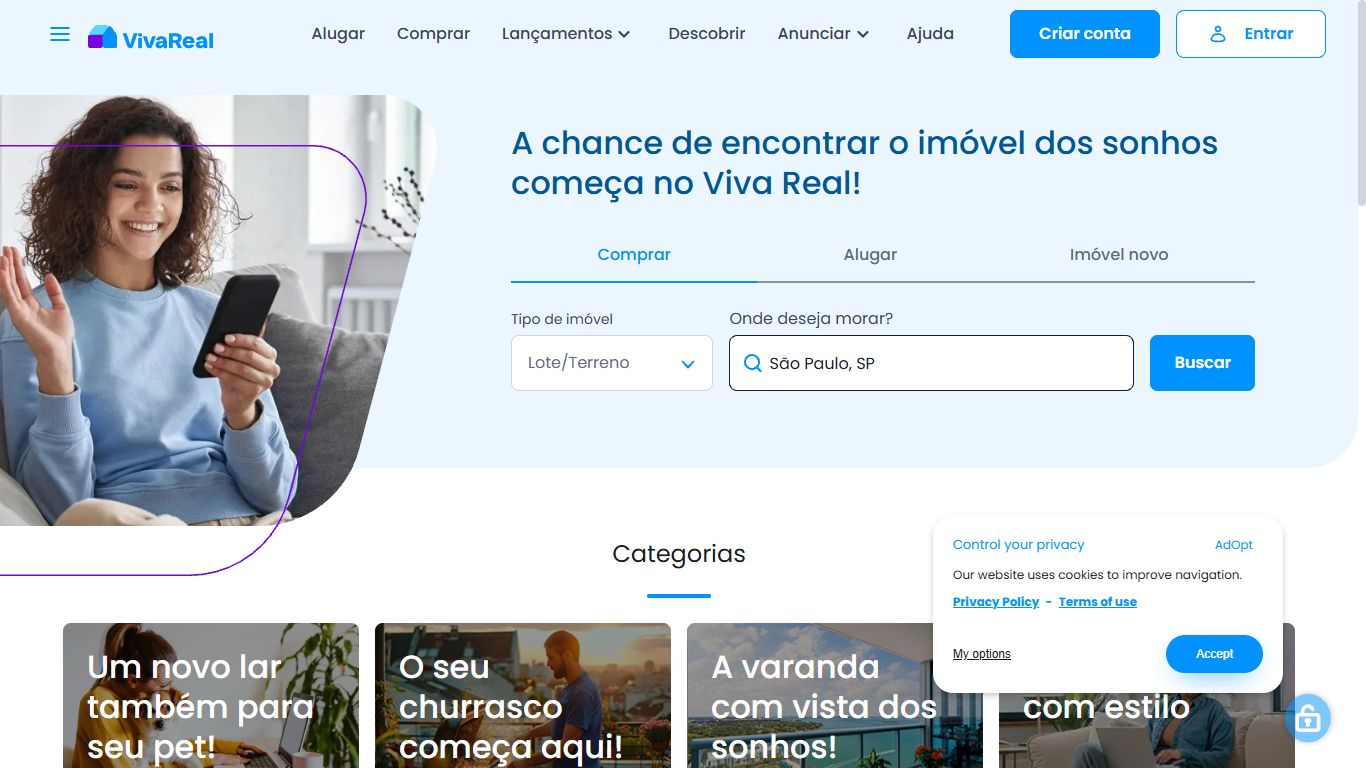
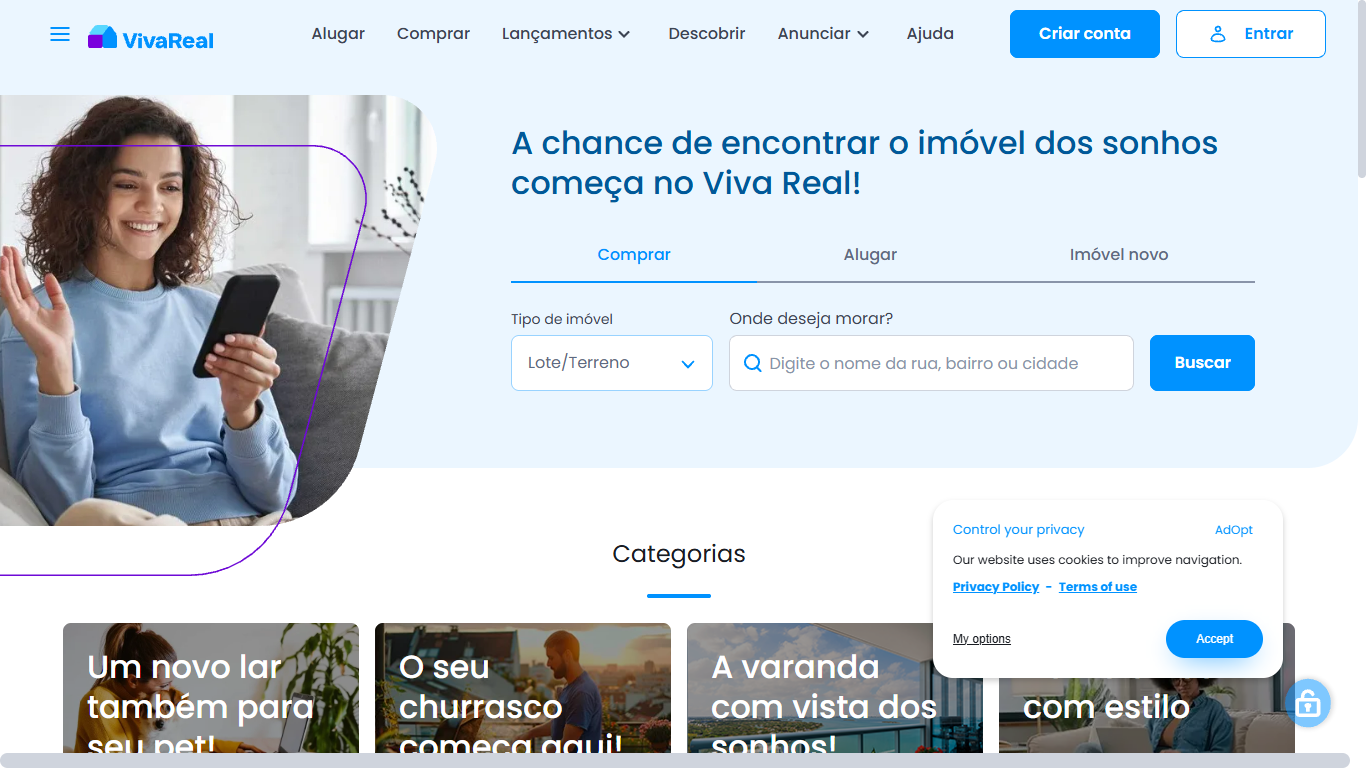
Refatora lógica do scraper

Changed region(s): [[0.0, 0.6875, 1.0, 1.0], [0.5534, 0.4688, 0.7994, 0.5], [0.9839, 0.2188, 1.0, 0.2812]]

diff --git a/scraper.js b/scraper.js
@@ -28,24 +28,6 @@ async function buscarTerrenos({ localizacao }) {
     await page.screenshot({ path: path.join(__dirname, "vivareal-home.png") });
     console.log("Screenshot da página inicial salvo");
 
-    // 1. Preencher a localização
-    console.log(`Preenchendo localização: ${localizacao}`);
-    try {
-      const localizacaoInputSelector =
-        'input[placeholder="Digite o nome da rua, bairro ou cidade"]';
-
-      await page.waitForSelector(localizacaoInputSelector, { timeout: 10000 });
-      await page.type(localizacaoInputSelector, localizacao);
-      console.log("Localização preenchida com sucesso");
-      await new Promise((resolve) => setTimeout(resolve, 2000));
-    } catch (error) {
-      console.error("Erro ao preencher localização:", error.message);
-      await page.screenshot({
-        path: path.join(__dirname, "erro-localizacao.png"),
-      });
-      throw new Error(`Falha ao preencher localização: ${error.message}`);
-    }
-
     // 2. Selecionar "Lote / Terreno"
     console.log("Tentando abrir o dropdown de tipo de imóvel");
     try {
@@ -166,6 +148,73 @@ async function buscarTerrenos({ localizacao }) {
       throw new Error(`Falha ao selecionar tipo de imóvel: ${error.message}`);
     }
 
+    // 1. Preencher a localização
+    console.log(`Preenchendo localização: ${localizacao}`);
+    try {
+      const localizacaoInputSelector =
+        'input[placeholder="Digite o nome da rua, bairro ou cidade"]';
+
+      await page.waitForSelector(localizacaoInputSelector, { timeout: 10000 });
+
+      // Clicar no input antes de digitar
+      await page.click(localizacaoInputSelector);
+      await new Promise((resolve) => setTimeout(resolve, 3000));
+
+      // Digitar a localização
+      await page.type(localizacaoInputSelector, localizacao, { delay: 100 });
+      console.log("Localização preenchida com sucesso");
+
+      await new Promise((resolve) => setTimeout(resolve, 3000));
+    } catch (error) {
+      console.error("Erro ao preencher localização:", error.message);
+      await page.screenshot({
+        path: path.join(__dirname, "erro-localizacao.png"),
+      });
+      throw new Error(`Falha ao preencher localização: ${error.message}`);
+    }
+    // 2. Esperar o dropdown aparecer e selecionar a sugestão correta
+    try {
+      const dropdownLabelSelector = ".l-dropdown__content label";
+
+      await page.waitForSelector(dropdownLabelSelector, { timeout: 10000 });
+
+      const cidadeSelecionada = localizacao;
+
+      const labels = await page.$$(dropdownLabelSelector);
+      let encontrou = false;
+
+      for (const label of labels) {
+        const span = await label.$("span");
+        const textoSpan = await page.evaluate(
+          (el) => el.textContent.trim(),
+          span
+        );
+
+        if (textoSpan === cidadeSelecionada) {
+          const input = await label.$("input.olx-core-checkbox-radio__input");
+          if (input) {
+            await input.click();
+            encontrou = true;
+            console.log(`Selecionado: ${textoSpan}`);
+            await new Promise((resolve) => setTimeout(resolve, 3000));
+            break;
+          }
+        }
+      }
+
+      if (!encontrou) {
+        throw new Error(
+          `Cidade "${cidadeSelecionada}" não encontrada no dropdown.`
+        );
+      }
+    } catch (error) {
+      console.error("Erro ao selecionar sugestão do dropdown:", error.message);
+      await page.screenshot({
+        path: path.join(__dirname, "erro-dropdown.png"),
+      });
+      throw new Error(`Falha ao selecionar sugestão: ${error.message}`);
+    }
+    await new Promise((resolve) => setTimeout(resolve, 3000));
     // 3. Clicar no botão "Buscar"
     console.log("Clicando no botão Buscar");
     try {
